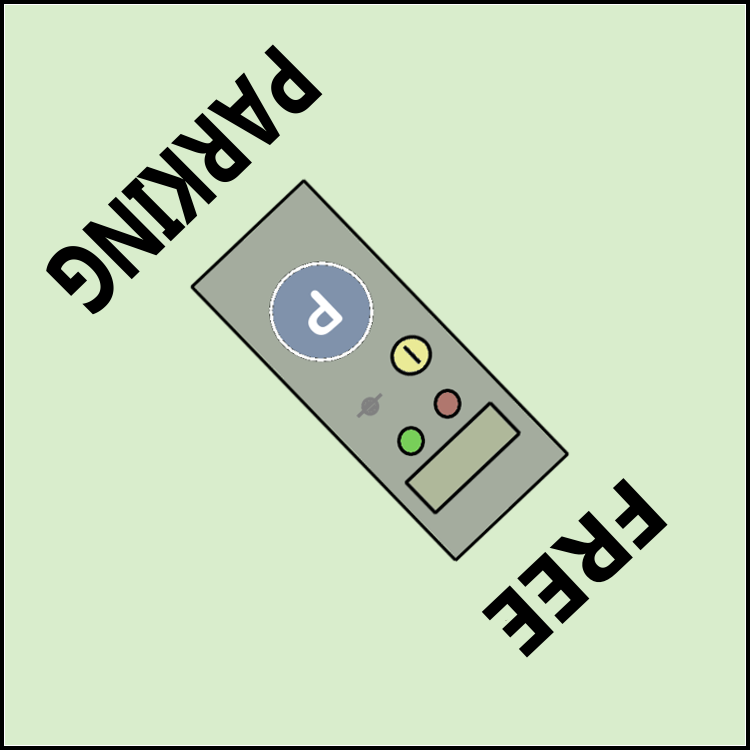
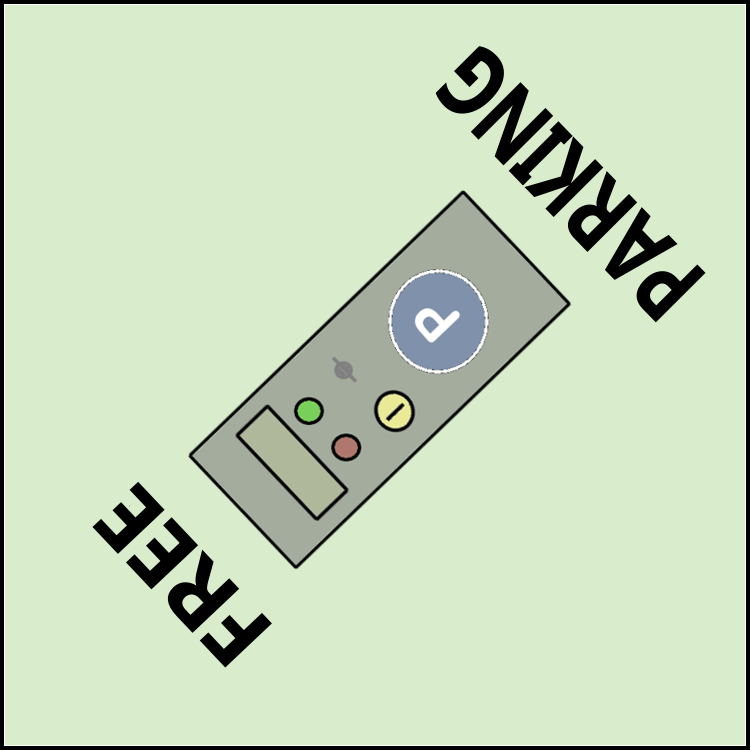
UpdatedBoardandTiles

diff --git a/src/main/java/org/main/property_tycoon_fx/GameManager/GameBoard.java b/src/main/java/org/main/property_tycoon_fx/GameManager/GameBoard.java
@@ -18,6 +18,9 @@ import javafx.stage.Stage;
 import org.apache.poi.ss.formula.functions.T;
 import org.apache.xmlbeans.impl.xb.xsdschema.Public;
 
+import javafx.scene.image.WritableImage;
+
+
 import java.util.*;
 
 public class GameBoard extends Application {
@@ -74,7 +77,7 @@ public class GameBoard extends Application {
         boardPane.setLayoutY(sceneHeight * 0.05); // Slight top margin
         boardPane.setPrefWidth(sceneWidth * 0.5);
         boardPane.setPrefHeight(sceneHeight * 0.7);
-        boardPane.setBorder(Border);
+
 
         double paneWidth = boardPane.getPrefWidth() * 0.190;  // Same width for Top and Bottom panes
         double paneHeight = boardPane.getPrefHeight() * 0.190; // Same height for all panes
@@ -86,25 +89,25 @@ public class GameBoard extends Application {
         BottomPane.setStyle("-fx-background-color: beige;");
         BottomPane.setPrefWidth(paneWidth);
         BottomPane.setPrefHeight(paneHeight);
-        BottomPane.setBorder(Border);
+
 
 
         TopPane.setStyle("-fx-background-color: beige;");
         TopPane.setPrefWidth(paneWidth);
         TopPane.setPrefHeight(paneHeight);
-        TopPane.setBorder(Border);
+
 
 
         LeftPane.setStyle("-fx-background-color: beige;");
         LeftPane.setPrefWidth(sidePaneWidth);
         LeftPane.setPrefHeight(sidePaneHeight); // Shorter height so it fits
-        LeftPane.setBorder(Border);
+
 
 
         RightPane.setStyle("-fx-background-color: beige;");
         RightPane.setPrefWidth(sidePaneWidth);
         RightPane.setPrefHeight(sidePaneHeight); // Shorter height so it fits
-        RightPane.setBorder(Border);
+
 
         // Set side panes to be inside the boardPane using BorderPane
         boardPane.setBottom(BottomPane);
@@ -119,7 +122,7 @@ public class GameBoard extends Application {
         bankPane.setLayoutY(sceneHeight * 0.05);
         bankPane.setPrefWidth(sceneWidth * 0.225);
         bankPane.setPrefHeight(sceneHeight * 0.45);
-        bankPane.setBorder(Border);
+
 
         // Create pane for Dice (inside the boardPane):
         Pane DicePane = new Pane();
@@ -128,9 +131,9 @@ public class GameBoard extends Application {
         DicePane.setLayoutY(sceneHeight * 0.5);
         DicePane.setPrefWidth(sceneWidth * 0.225);
         DicePane.setPrefHeight(sceneHeight * 0.45);
-        DicePane.setBorder(Border);
 
-        // create button objects and show image
+
+        // create button objects and show image v  
         //
         dice = new Dice(DicePane, sceneWidth, sceneHeight);
         //setDice(dice);
@@ -215,21 +218,14 @@ public class GameBoard extends Application {
     public EndTurnButton getEndTurnButton(){return endTurnButton;}
 
 
-    // Create Universal Border:
-    public Border Border = new Border(new BorderStroke(Color.BLACK, // Border color
-            BorderStrokeStyle.DASHED, // Solid line style
-            CornerRadii.EMPTY, // No rounded corners
-            new BorderWidths(2) // 2-pixel border width
-    ));
-
     public void FillTiles(GridPane Top, GridPane Bottom, GridPane Left, GridPane Right) {
-        TileReader TReader = new TileReader();
-        TReader.getTileDetails(); // Load tile details from Excel
+        TileReader tileReader = new TileReader();
+        tileReader.getTileDetails(); // Load tile details from Excel
 
         int topSize = 11;
         int sideSize = 9;
 
-        LinkedList<Tile> tileList = TReader.returnTileList(); // Get tiles from TileReader
+        LinkedList<Tile> tileList = tileReader.returnTileList(); // Get tiles from TileReader
 
         // Track positions for each pane
         int bottomCol = 0;
@@ -238,86 +234,127 @@ public class GameBoard extends Application {
         int leftRow = 0;
 
         for (Tile tile : tileList) {
-            String PositionStr = Double.toString(tile.getPosition());
+            String positionStr = Double.toString(tile.getPosition());
 
-            boolean isCorner = PositionStr.endsWith("1.0") || tile.getPosition() == 1;
+            boolean isCorner = positionStr.endsWith("1.0") || tile.getPosition() == 1;
             tile.setType(isCorner ? "Corner" : "Rectangle");
 
-            Label cellRect = new Label(tile.getSpace()); // Create a label for the tile normal rotation
-            cellRect.setMinSize(150, 75);
-            cellRect.setMaxSize(150, 75);
-            cellRect.setPrefSize(150, 75);
-            cellRect.setAlignment(Pos.CENTER);
-            cellRect.setFont(new Font(14));
-            cellRect.setBorder(new Border(new BorderStroke(Color.BLACK,
+            Label rectLabel = new Label(tile.getSpace()); // Create a label for normal rotation
+            rectLabel.setMinSize(150, 75);
+            rectLabel.setMaxSize(150, 75);
+            rectLabel.setPrefSize(150, 75);
+            rectLabel.setAlignment(Pos.CENTER);
+            rectLabel.setFont(new Font(14));
+            rectLabel.setBorder(new Border(new BorderStroke(Color.BLACK,
                     BorderStrokeStyle.SOLID, CornerRadii.EMPTY, new BorderWidths(1))));
+            rectLabel.setStyle("-fx-text-fill: transparent;");
 
-            Label cellRect1 = new Label(tile.getSpace());
-            cellRect1.setMinSize(75, 150);
-            cellRect1.setMaxSize(75, 150);
-            cellRect1.setPrefSize(75, 150);
-            cellRect1.setAlignment(Pos.CENTER);
-            cellRect1.setFont(new Font(14));
-            cellRect1.setBorder(new Border(new BorderStroke(Color.BLACK,
+            Label rotatedRectLabel = new Label(tile.getSpace());
+            rotatedRectLabel.setMinSize(75, 150);
+            rotatedRectLabel.setMaxSize(75, 150);
+            rotatedRectLabel.setPrefSize(75, 150);
+            rotatedRectLabel.setAlignment(Pos.CENTER);
+            rotatedRectLabel.setFont(new Font(14));
+            rotatedRectLabel.setBorder(new Border(new BorderStroke(Color.BLACK,
                     BorderStrokeStyle.SOLID, CornerRadii.EMPTY, new BorderWidths(1))));
+            rotatedRectLabel.setStyle("-fx-text-fill: transparent;");
 
-            Label cellCorner = new Label(tile.getSpace()); // Create a label for the tile
-            cellCorner.setMinSize(150, 150);
-            cellCorner.setMaxSize(150, 150);
-            cellCorner.setPrefSize(150, 150);
-            cellCorner.setAlignment(Pos.CENTER);
-            cellCorner.setFont(new Font(14));
-            cellCorner.setBorder(new Border(new BorderStroke(Color.BLACK,
+            Label cornerLabel = new Label(tile.getSpace()); // Create a label for corners
+            cornerLabel.setMinSize(150, 150);
+            cornerLabel.setMaxSize(150, 150);
+            cornerLabel.setPrefSize(150, 150);
+            cornerLabel.setAlignment(Pos.CENTER);
+            cornerLabel.setFont(new Font(14));
+            cornerLabel.setBorder(new Border(new BorderStroke(Color.BLACK,
                     BorderStrokeStyle.SOLID, CornerRadii.EMPTY, new BorderWidths(1))));
+            cornerLabel.setStyle("-fx-text-fill: transparent;");
 
-            Image imageTileRect = new Image(tile.getTileImage().getUrl(), 75, 150, false, false);
-            Image imageTileCorner = new Image(tile.getTileImage().getUrl(), 150, 150, false, false);
+            Image rectangleImage = new Image(tile.getTileImage().getUrl(), 75, 150, false, false);
+            Image cornerImage = new Image(tile.getTileImage().getUrl(), 150, 150, false, false);
 
-            BackgroundImage WeSoStupidlol = new BackgroundImage(
-                    imageTileRect,
+            BackgroundImage rectangleBackground = new BackgroundImage(
+                    rectangleImage,
                     BackgroundRepeat.NO_REPEAT,
                     BackgroundRepeat.NO_REPEAT,
                     BackgroundPosition.DEFAULT,
                     BackgroundSize.DEFAULT
             );
 
-            BackgroundImage WeSoStupidlol1 = new BackgroundImage(
-                    imageTileCorner,
+            ImageView rotated90View = new ImageView(rectangleImage);
+            rotated90View.setRotate(90);
+            WritableImage rotatedImage90 = rotated90View.snapshot(null, null);
+
+            ImageView rotated270View = new ImageView(rectangleImage);
+            rotated270View.setRotate(270);
+            WritableImage rotatedImage270 = rotated270View.snapshot(null, null);
+
+            ImageView rotated180View = new ImageView(rectangleImage);
+            rotated180View.setRotate(180);
+            WritableImage rotatedImage180 = rotated180View.snapshot(null, null);
+
+            BackgroundImage cornerBackground = new BackgroundImage(
+                    cornerImage,
                     BackgroundRepeat.NO_REPEAT,
                     BackgroundRepeat.NO_REPEAT,
                     BackgroundPosition.DEFAULT,
                     BackgroundSize.DEFAULT
             );
 
+            BackgroundImage rotatedBackground90 = new BackgroundImage(
+                    rotatedImage90,
+                    BackgroundRepeat.NO_REPEAT,
+                    BackgroundRepeat.NO_REPEAT,
+                    BackgroundPosition.DEFAULT,
+                    BackgroundSize.DEFAULT
+            );
+
+            BackgroundImage rotatedBackground270 = new BackgroundImage(
+                    rotatedImage270,
+                    BackgroundRepeat.NO_REPEAT,
+                    BackgroundRepeat.NO_REPEAT,
+                    BackgroundPosition.DEFAULT,
+                    BackgroundSize.DEFAULT
+            );
+
+            BackgroundImage rotatedBackground180 = new BackgroundImage(
+                    rotatedImage180,
+                    BackgroundRepeat.NO_REPEAT,
+                    BackgroundRepeat.NO_REPEAT,
+                    BackgroundPosition.DEFAULT,
+                    BackgroundSize.DEFAULT
+            );
+
+            // Fill grids based on positions
             if (bottomCol < topSize) {
                 if (tile.getType().equals("Corner")) {
-                    cellCorner.setBackground(new Background(WeSoStupidlol1));
-                    Bottom.add(cellCorner, bottomCol, 0); // Fill BottomPane left to right
+                    cornerLabel.setBackground(new Background(cornerBackground));
+                    Bottom.add(cornerLabel, bottomCol, 0); // Fill BottomPane left to right
                 } else {
-                    cellRect1.setBackground(new Background(WeSoStupidlol));
-                    Bottom.add(cellRect1, bottomCol, 0); // Fill BottomPane left to right
+                    rotatedRectLabel.setBackground(new Background(rectangleBackground));
+                    Bottom.add(rotatedRectLabel, bottomCol, 0); // Fill BottomPane left to right
                 }
                 bottomCol++;
             } else if (rightRow >= 0) {
-                cellRect.setBackground(new Background(WeSoStupidlol));
-                Right.add(cellRect, 0, rightRow); // Fill RightPane bottom to top
+                rectLabel.setBackground(new Background(rotatedBackground270));
+                Right.add(rectLabel, 0, rightRow); // Fill RightPane bottom to top
                 rightRow--;
             } else if (topCol >= 0) {
                 if (tile.getType().equals("Corner")) {
-                    cellCorner.setBackground(new Background(WeSoStupidlol1));
-                    Top.add(cellCorner, topCol, 0); // Fill TopPane right to left
+                    cornerLabel.setBackground(new Background(cornerBackground));
+                    Top.add(cornerLabel, topCol, 0); // Fill TopPane right to left
                 } else {
-                    cellRect1.setBackground(new Background(WeSoStupidlol));
-                    Top.add(cellRect1, topCol, 0); // Fill TopPane right to left
+                    rotatedRectLabel.setBackground(new Background(rotatedBackground180));
+                    Top.add(rotatedRectLabel, topCol, 0); // Fill TopPane right to left
                 }
                 topCol--;
             } else if (leftRow < sideSize) {
-                cellRect.setBackground(new Background(WeSoStupidlol));
-                Left.add(cellRect, 0, leftRow); // Fill LeftPane top to bottom
+                rectLabel.setBackground(new Background(rotatedBackground90));
+                Left.add(rectLabel, 0, leftRow); // Fill LeftPane top to bottom
                 leftRow++;
             }
         }
     }
+
 
     public void passPlayerPosTile(Player player, int pPos) {
         TileReader TReader = new TileReader();

diff --git a/src/main/java/org/main/property_tycoon_fx/GameManager/GameManager.java b/src/main/java/org/main/property_tycoon_fx/GameManager/GameManager.java
@@ -4,6 +4,7 @@ import javafx.application.Application;
 import javafx.stage.Stage;
 import javafx.scene.control.Button;
 
+
 import java.util.ArrayList;
 
 public class GameManager extends Application {
